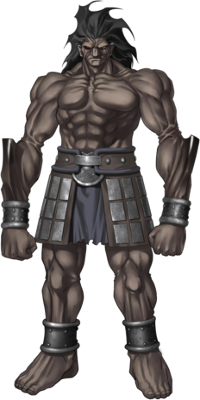
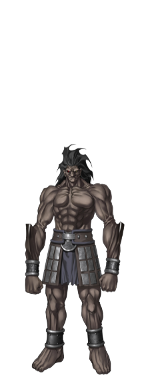
Add new images, refactor Image.heroPortraitFilepath to Image.heroImageFilepath

diff --git a/src/VillainsLairPanel.java b/src/VillainsLairPanel.java
@@ -128,16 +128,16 @@ public class VillainsLairPanel extends JPanel implements Refreshable {
 //		contentPanel.removeAll();
 //		
 //		JLabel lblVillainImage = new JLabel("");
-//		lblVillainImage.setBounds(694, 61, 150, 300);
+//		lblVillainImage.setBounds(694, 11, 150, 375);
 //		lblVillainImage.setIcon(new ImageIcon(VillainsLairPanel.class.getResource(Image.villainImageFilepath(new Invictus()))));
 //		contentPanel.add(lblVillainImage);
 //		
 //		JLabel lblVillainName = new JLabel((new Invictus()).toString());
 //		lblVillainName.setFont(new Font("Tahoma", Font.PLAIN, 16));
 //		lblVillainName.setHorizontalAlignment(SwingConstants.CENTER);
-//		lblVillainName.setBounds(694, 389, 166, 25);
+//		lblVillainName.setBounds(673, 397, 190, 25);
 //		contentPanel.add(lblVillainName);
-//		
+
 //		addSubContentPanel();
 		
 		
@@ -150,14 +150,14 @@ public class VillainsLairPanel extends JPanel implements Refreshable {
 		contentPanel.removeAll();
 		
 		JLabel lblVillainImage = new JLabel("");
-		lblVillainImage.setBounds(694, 62, 150, 300);
-		lblVillainImage.setIcon(new ImageIcon(VillainsLairPanel.class.getResource(Image.villainImageFilepath(new Invictus()))));
+		lblVillainImage.setBounds(694, 11, 150, 375);
+		lblVillainImage.setIcon(new ImageIcon(VillainsLairPanel.class.getResource(Image.villainImageFilepath(villain()))));
 		contentPanel.add(lblVillainImage);
 		
-		JLabel lblVillainName = new JLabel((new Invictus()).toString());
+		JLabel lblVillainName = new JLabel((villain().toString()));
 		lblVillainName.setFont(new Font("Tahoma", Font.PLAIN, 16));
 		lblVillainName.setHorizontalAlignment(SwingConstants.CENTER);
-		lblVillainName.setBounds(694, 389, 166, 25);
+		lblVillainName.setBounds(673, 397, 190, 25);
 		contentPanel.add(lblVillainName);
 		
 		addSubContentPanel();
@@ -268,7 +268,7 @@ public class VillainsLairPanel extends JPanel implements Refreshable {
 			
 			JLabel heroImage = new JLabel();
 			heroImage.setBounds(35, 10, 150, 150);
-			heroImage.setIcon(new ImageIcon(VillainsLairPanel.class.getResource(Image.heroPortraitFilepath(hero, 150))));
+			heroImage.setIcon(new ImageIcon(VillainsLairPanel.class.getResource(Image.heroImageFilepath(hero, 150, 150))));
 			heroImage.setBorder(BorderFactory.createLineBorder(Color.BLACK));
 			heroPanel.add(heroImage);
 			
@@ -349,7 +349,7 @@ public class VillainsLairPanel extends JPanel implements Refreshable {
 		
 		JLabel lblHeroImage = new JLabel("");
 		// TODO change to heroes' images
-		lblHeroImage.setIcon(new ImageIcon(VillainsLairPanel.class.getResource("/img/invictus.png")));
+		lblHeroImage.setIcon(new ImageIcon(VillainsLairPanel.class.getResource(Image.heroImageFilepath(currentHero, 150, 300))));
 		lblHeroImage.setBounds(10, 51, 150, 300);
 		heroImagePanel.add(lblHeroImage);
 		

diff --git a/src/HospitalPanel.java b/src/HospitalPanel.java
@@ -265,7 +265,7 @@ public class HospitalPanel extends JPanel implements Refreshable {
 			
 			JLabel lblImage = new JLabel("");
 			lblImage.setBounds(28, 11, 150, 150);
-			lblImage.setIcon(new ImageIcon(HospitalPanel.class.getResource(Image.heroPortraitFilepath(hero, 150))));
+			lblImage.setIcon(new ImageIcon(HospitalPanel.class.getResource(Image.heroImageFilepath(hero, 150, 150))));
 			lblImage.setBorder(BorderFactory.createLineBorder(Color.BLACK));
 			heroPanel.add(lblImage);
 			
@@ -425,7 +425,7 @@ public class HospitalPanel extends JPanel implements Refreshable {
 			JLabel lblHeroImage = new JLabel("");
 			lblHeroImage.setHorizontalAlignment(SwingConstants.CENTER);
 			lblHeroImage.setIcon(new ImageIcon(PowerUpDenPanel.class.getResource(
-									Image.heroPortraitFilepath(hero, 100))));
+									Image.heroImageFilepath(hero, 100, 100))));
 			heroPanel.add(lblHeroImage, BorderLayout.NORTH);
 			
 			JLabel lblHeroName = new JLabel(hero.toString());

diff --git a/src/SetUpPanel.java b/src/SetUpPanel.java
@@ -428,7 +428,7 @@ public class SetUpPanel extends JPanel {
 		
 		JLabel lblHeroImage = new JLabel("");
 		lblHeroImage.setIcon(new ImageIcon(SetUpPanel.class.getResource(
-				  				Image.heroPortraitFilepath(hero, 200))));
+				  				Image.heroImageFilepath(hero, 200, 200))));
 		lblHeroImage.setBounds(10, 11, 200, 200);
 		infoPanel.add(lblHeroImage);
 		
@@ -546,7 +546,7 @@ public class SetUpPanel extends JPanel {
 		JLabel lblHeroImage = new JLabel("");
 		lblHeroImage.setHorizontalAlignment(SwingConstants.CENTER);
 		lblHeroImage.setIcon(new ImageIcon(SetUpPanel.class.getResource(
-								Image.heroPortraitFilepath(hero, 200))));
+								Image.heroImageFilepath(hero, 200, 200))));
 		heroSummaryPanel.add(lblHeroImage, BorderLayout.NORTH);
 		
 		JLabel lblHeroName = new JLabel(String.format(

diff --git a/src/PowerUpDenPanel.java b/src/PowerUpDenPanel.java
@@ -244,7 +244,7 @@ public class PowerUpDenPanel extends JPanel implements Refreshable {
 			JLabel lblHeroImage = new JLabel("");
 			lblHeroImage.setHorizontalAlignment(SwingConstants.CENTER);
 			lblHeroImage.setIcon(new ImageIcon(PowerUpDenPanel.class.getResource(
-									Image.heroPortraitFilepath(hero, 100))));
+									Image.heroImageFilepath(hero, 100, 100))));
 			heroPanel.add(lblHeroImage, BorderLayout.NORTH);
 			
 			JLabel lblHeroName = new JLabel(hero.toString());

diff --git a/src/HomeBasePanel.java b/src/HomeBasePanel.java
@@ -473,7 +473,7 @@ public class HomeBasePanel extends JPanel implements Refreshable {
 			JLabel lblHeroPortrait = new JLabel("");
 			lblHeroPortrait.setBounds(30, 24, 150, 150);
 			lblHeroPortrait.setIcon(new ImageIcon(HomeBasePanel.class.getResource(
-										Image.heroPortraitFilepath(hero, 150))));
+										Image.heroImageFilepath(hero, 150, 150))));
 			heroPanel.add(lblHeroPortrait);
 
 			JLabel lblHeroName = new JLabel(String.format("%s the %s", hero.getName(),

diff --git a/src/Image.java b/src/Image.java
@@ -27,10 +27,10 @@ public class Image {
 	 * @param size 		The size of the image to be returned.
 	 * @return			The file path of the portrait image of this hero.
 	 */
-	public static String heroPortraitFilepath(Hero hero, int size) {
+	public static String heroImageFilepath(Hero hero, int width, int height) {
 		return String.format("/img/%s_%sx%s.png",
 								hero.getType().toLowerCase(),
-								size, size);
+								width, height);
 	}
 	
 	/**
